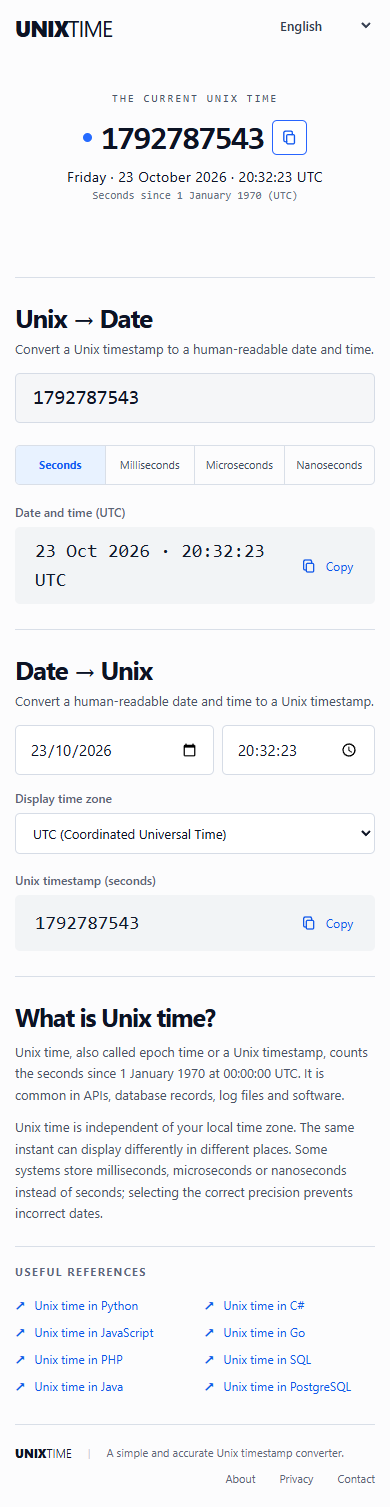
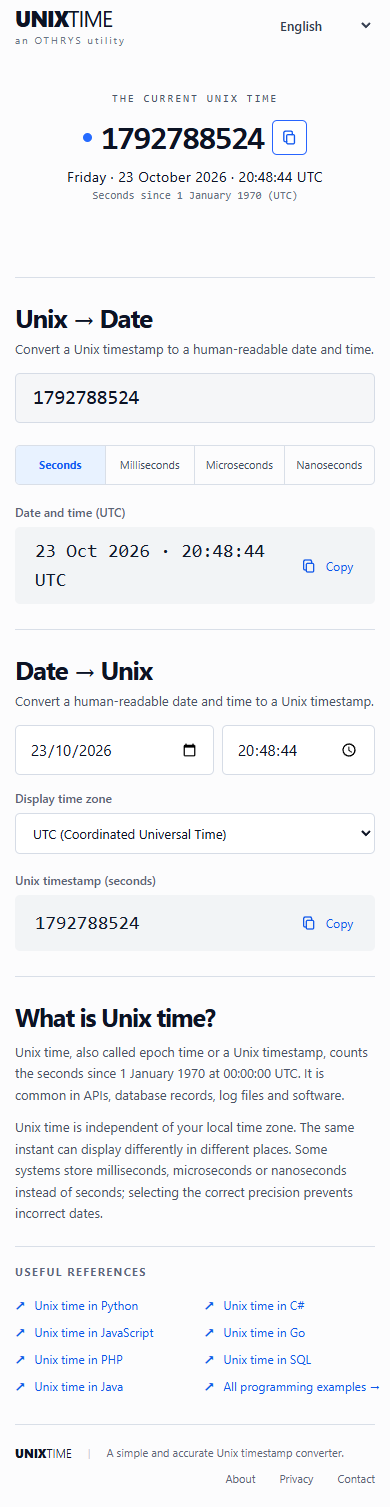
feat: align UnixTime brand subtitle with WorldTime OTHRYS utility

diff --git a/styles.css b/styles.css
@@ -13,6 +13,9 @@ button:focus-visible,a:focus-visible,input:focus-visible,select:focus-visible,su
 .topbar{height:78px;display:grid;grid-template-columns:1fr 1fr 1fr;align-items:start}
 .brand{margin-top:15px;font-size:22px;letter-spacing:-1.05px;color:var(--ink);font-weight:400;text-decoration:none}
 .brand strong,.footer-brand strong{font-weight:840}
+.brand{display:flex;flex-direction:column;justify-content:center;align-items:flex-start;gap:2px;margin-top:8px;line-height:1.12}
+.brand-main{font-size:22px;letter-spacing:-1.05px}
+.brand-signature{font-size:10px;letter-spacing:2px;color:#697587;font-weight:400;line-height:1.4;white-space:nowrap}
 .nav-links{height:56px;display:flex;gap:37px;align-items:stretch;justify-content:center}
 .nav-links a{display:grid;align-items:center;font-size:13px;text-decoration:none;color:#4c5669;border-bottom:2px solid transparent;font-weight:500;white-space:nowrap}
 .nav-links a.active{font-weight:680;color:var(--ink);border-color:var(--blue)}
@@ -80,6 +83,6 @@ button:focus-visible,a:focus-visible,input:focus-visible,select:focus-visible,su
 .footer-links a{color:#5a6577;text-decoration:none}
 .sr-only{position:absolute!important;width:1px;height:1px;padding:0;margin:-1px;overflow:hidden;clip:rect(0,0,0,0);white-space:nowrap;border:0}
 @media(max-width:920px){.container{width:calc(100% - 38px)}.hero{height:auto;min-height:218px}.hero-time{gap:14px}.timestamp{font-size:clamp(46px,6.5vw,74px)}.convert-col{padding-right:22px}.convert-col+.convert-col{padding-left:22px}.date-time-inputs{gap:8px}.explain{padding-right:22px}.references{padding-left:24px}}
-@media(max-width:680px){.container{width:calc(100% - 30px)}.topbar{height:60px;grid-template-columns:1fr auto}.nav-links{display:none}.brand{margin-top:12px}.lang-menu{margin-top:7px}.hero{padding:31px 0 28px}.kicker{font-size:11px}.hero-time{gap:9px;flex-wrap:wrap}.timestamp{font-size:clamp(29px,8.5vw,55px);letter-spacing:-.06em}.live-dot{width:9px;height:9px}.copy-time{padding:8px;font-size:0;gap:0}.copy-time svg{width:17px;height:17px}.hero-readable{font-size:14px;margin-top:8px}.hero-caption{font-size:11px}.converter{grid-template-columns:1fr}.convert-col{padding:24px 0 25px}.convert-col+.convert-col{padding:24px 0 25px;border-left:0;border-top:1px solid var(--line)}.col-head h2{font-size:26px}.col-head{margin-bottom:15px}.unit-choice{font-size:11px;padding:8px 3px}.output-label{margin-top:18px}.date-time-inputs{grid-template-columns:minmax(0,1.3fr) minmax(0,1fr)}.below{grid-template-columns:1fr;gap:22px;padding:25px 0}.explain{padding:0}.references{padding:18px 0 0;border-left:0;border-top:1px solid var(--line)}.explain h2{font-size:25px}.footer{flex-wrap:wrap;padding:19px 0;gap:9px}.footer-links{margin-left:auto}.footer-left{width:100%}}
+@media(max-width:680px){.container{width:calc(100% - 30px)}.topbar{height:60px;grid-template-columns:1fr auto}.nav-links{display:none}.brand{margin-top:6px}.lang-menu{margin-top:7px}.hero{padding:31px 0 28px}.kicker{font-size:11px}.hero-time{gap:9px;flex-wrap:wrap}.timestamp{font-size:clamp(29px,8.5vw,55px);letter-spacing:-.06em}.live-dot{width:9px;height:9px}.copy-time{padding:8px;font-size:0;gap:0}.copy-time svg{width:17px;height:17px}.hero-readable{font-size:14px;margin-top:8px}.hero-caption{font-size:11px}.converter{grid-template-columns:1fr}.convert-col{padding:24px 0 25px}.convert-col+.convert-col{padding:24px 0 25px;border-left:0;border-top:1px solid var(--line)}.col-head h2{font-size:26px}.col-head{margin-bottom:15px}.unit-choice{font-size:11px;padding:8px 3px}.output-label{margin-top:18px}.date-time-inputs{grid-template-columns:minmax(0,1.3fr) minmax(0,1fr)}.below{grid-template-columns:1fr;gap:22px;padding:25px 0}.explain{padding:0}.references{padding:18px 0 0;border-left:0;border-top:1px solid var(--line)}.explain h2{font-size:25px}.footer{flex-wrap:wrap;padding:19px 0;gap:9px}.footer-links{margin-left:auto}.footer-left{width:100%}}
 @media(max-width:360px){.timestamp{font-size:28px}.date-time-inputs{gap:6px}.date-time-inputs input{font-size:13px;padding:8px}.converted-value{font-size:15px}.unit-choice{font-size:10px}.reference-links{grid-template-columns:1fr}}
 @media(prefers-reduced-motion:reduce){html{scroll-behavior:auto}}

diff --git a/fr/index.html b/fr/index.html
@@ -31,7 +31,7 @@
 <a class="skip" href="#main">Aller au convertisseur</a>
 <header class="site-header">
   <nav class="topbar container" aria-label="Main navigation">
-    <a href="/" class="brand" aria-label="UnixTime home"><strong>UNIX</strong>TIME</a>
+    <a href="/" class="brand" aria-label="UnixTime home"><span class="brand-main"><strong>UNIX</strong>TIME</span><small class="brand-signature">an OTHRYS utility</small></a>
     <div class="nav-links">
       <a class="active" href="#converter">Convertisseur</a>
       <a href="#about">À propos du temps Unix</a>

diff --git a/es/index.html b/es/index.html
@@ -31,7 +31,7 @@
 <a class="skip" href="#main">Ir al convertidor</a>
 <header class="site-header">
   <nav class="topbar container" aria-label="Main navigation">
-    <a href="/" class="brand" aria-label="UnixTime home"><strong>UNIX</strong>TIME</a>
+    <a href="/" class="brand" aria-label="UnixTime home"><span class="brand-main"><strong>UNIX</strong>TIME</span><small class="brand-signature">an OTHRYS utility</small></a>
     <div class="nav-links">
       <a class="active" href="#converter">Convertidor</a>
       <a href="#about">Sobre el tiempo Unix</a>

diff --git a/de/index.html b/de/index.html
@@ -31,7 +31,7 @@
 <a class="skip" href="#main">Zum Umrechner springen</a>
 <header class="site-header">
   <nav class="topbar container" aria-label="Main navigation">
-    <a href="/" class="brand" aria-label="UnixTime home"><strong>UNIX</strong>TIME</a>
+    <a href="/" class="brand" aria-label="UnixTime home"><span class="brand-main"><strong>UNIX</strong>TIME</span><small class="brand-signature">an OTHRYS utility</small></a>
     <div class="nav-links">
       <a class="active" href="#converter">Umrechner</a>
       <a href="#about">Über Unix-Zeit</a>

diff --git a/pt/index.html b/pt/index.html
@@ -31,7 +31,7 @@
 <a class="skip" href="#main">Ir para o conversor</a>
 <header class="site-header">
   <nav class="topbar container" aria-label="Main navigation">
-    <a href="/" class="brand" aria-label="UnixTime home"><strong>UNIX</strong>TIME</a>
+    <a href="/" class="brand" aria-label="UnixTime home"><span class="brand-main"><strong>UNIX</strong>TIME</span><small class="brand-signature">an OTHRYS utility</small></a>
     <div class="nav-links">
       <a class="active" href="#converter">Conversor</a>
       <a href="#about">Sobre o tempo Unix</a>

diff --git a/nl/index.html b/nl/index.html
@@ -31,7 +31,7 @@
 <a class="skip" href="#main">Ga naar de omrekenaar</a>
 <header class="site-header">
   <nav class="topbar container" aria-label="Main navigation">
-    <a href="/" class="brand" aria-label="UnixTime home"><strong>UNIX</strong>TIME</a>
+    <a href="/" class="brand" aria-label="UnixTime home"><span class="brand-main"><strong>UNIX</strong>TIME</span><small class="brand-signature">an OTHRYS utility</small></a>
     <div class="nav-links">
       <a class="active" href="#converter">Omrekenen</a>
       <a href="#about">Over Unix-tijd</a>

diff --git a/index.html b/index.html
@@ -31,7 +31,7 @@
 <a class="skip" href="#main">Skip to converter</a>
 <header class="site-header">
   <nav class="topbar container" aria-label="Main navigation">
-    <a href="/" class="brand" aria-label="UnixTime home"><strong>UNIX</strong>TIME</a>
+    <a href="/" class="brand" aria-label="UnixTime home"><span class="brand-main"><strong>UNIX</strong>TIME</span><small class="brand-signature">an OTHRYS utility</small></a>
     <div class="nav-links">
       <a class="active" href="#converter">Converter</a>
       <a href="#about">About Unix time</a>

diff --git a/template.html b/template.html
@@ -25,7 +25,7 @@
 <a class="skip" href="#main">@@SKIP@@</a>
 <header class="site-header">
   <nav class="topbar container" aria-label="Main navigation">
-    <a href="/" class="brand" aria-label="UnixTime home"><strong>UNIX</strong>TIME</a>
+    <a href="/" class="brand" aria-label="UnixTime home"><span class="brand-main"><strong>UNIX</strong>TIME</span><small class="brand-signature">an OTHRYS utility</small></a>
     <div class="nav-links">
       <a class="active" href="#converter">@@NAV_CONVERTER@@</a>
       <a href="#about">@@NAV_ABOUT@@</a>
